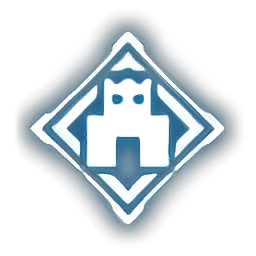
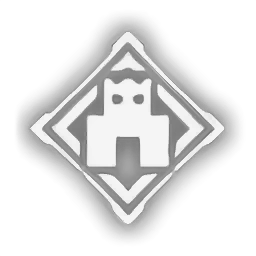
color bases and players per guild

Changed region(s): [[0.0938, 0.0938, 0.9062, 0.9062]]

diff --git a/src/bot.js b/src/bot.js
@@ -33,6 +33,47 @@ const INTERVAL_MINUTES = Number(process.env.INTERVAL_MINUTES ?? 10);
 // Exemple: MAP_IMAGE=../assets/updated_worldmap.png
 const MAP_IMAGE = process.env.MAP_IMAGE;
 const OUTPUT_SIZE = 4096;
+
+// ====== GUILD COLORS ======
+const GUILD_COLORS = [
+  "#ff0000", // rouge
+  "#3498DB", // bleu
+  "#2ECC71", // vert
+  "#F1C40F", // jaune
+  "#9B59B6", // violet
+  "#E67E22", // orange
+  "#ff21e1", // rose
+  "#95A5A6", // gris
+  "#00ffff", // cyan
+  "#FF5722", // deep orange
+  "#8BC34A", // light green
+  "#5e6f9e", // tailos
+  "#004953", // stratof
+];
+
+function normalizePalId(id) {
+  // guild members: "21FCEE28-00000000-..." vs players: "21FCEE2800000000..."
+  return String(id ?? "").replaceAll("-", "").toLowerCase();
+}
+
+function pickColorForGuild(palGuildId, state) {
+  state.palworld ??= {};
+  state.palworld.guildColors ??= {};
+
+  if (!state.palworld.guildColors[palGuildId]) {
+    const used = new Set(Object.values(state.palworld.guildColors));
+    const available = GUILD_COLORS.filter(c => !used.has(c));
+    const color = available.length
+      ? available[0]
+      : GUILD_COLORS[Math.floor(Math.random() * GUILD_COLORS.length)];
+
+    state.palworld.guildColors[palGuildId] = color;
+    saveState(state);
+  }
+
+  return state.palworld.guildColors[palGuildId];
+}
+
 // ====== COORDS / CALIBRATION ======
 //
 // 1) world -> map (déduit de tes couples joueurs world<->map)
@@ -107,29 +148,40 @@ const ASSETS = {
 
 let iconCache = null;
 
+const tintedCache = {
+  camp: new Map(),   // key: color -> buffer
+  player: new Map(), // key: color -> buffer
+};
+
+async function getTintedIcon(basePath, size, colorHex) {
+  // colorHex => key
+  const key = colorHex.toLowerCase();
+
+  // on choisit quel cache utiliser en fonction du fichier
+  const cache =
+    basePath === ASSETS.camp ? tintedCache.camp :
+    basePath === ASSETS.player ? tintedCache.player :
+    null;
+
+  if (cache && cache.has(key)) return cache.get(key);
+
+  const buf = await sharp(basePath)
+    .resize(size, size, { fit: "fill", kernel: sharp.kernel.nearest })
+    .tint(colorHex) // teinte toute l'icône
+    .png()
+    .toBuffer();
+
+  if (cache) cache.set(key, buf);
+  return buf;
+}
+
 async function loadIconsOnce() {
   if (iconCache) return iconCache;
 
   const CAMP_SIZE = 128;
   const PLAYER_SIZE = 112;
 
-  const camp = await sharp(ASSETS.camp)
-    .resize(CAMP_SIZE, CAMP_SIZE, { fit: "fill", kernel: sharp.kernel.nearest })
-    .png()
-    .toBuffer();
-
-  const player = await sharp(ASSETS.player)
-    .resize(PLAYER_SIZE, PLAYER_SIZE, { fit: "fill", kernel: sharp.kernel.nearest })
-    .png()
-    .toBuffer();
-
-  iconCache = {
-    camp,
-    player,
-    CAMP_SIZE,
-    PLAYER_SIZE,
-  };
-
+  iconCache = { CAMP_SIZE, PLAYER_SIZE };
   return iconCache;
 }
 
@@ -201,10 +253,11 @@ function extractCamps(guildsJson) {
     const g = guildsJson[guildId];
     for (const c of (g.camps ?? [])) {
       camps.push({
+        guild_id: guildId,
         guild: g.name,
+
         camp_id: c.id,
 
-        // ✅ on utilise map_pos directement (c'est notre meilleure vérité)
         map_x: (typeof c.map_pos?.x === "number") ? c.map_pos.x : null,
         map_y: (typeof c.map_pos?.y === "number") ? c.map_pos.y : null,
 
@@ -273,7 +326,7 @@ function makeLabelSvgSmall(text) {
 </svg>`);
 }
 
-async function renderSnapshot({ players, camps }) {
+async function renderSnapshot({ players, camps, playerToGuild, state }) {
   const icons = await loadIconsOnce();
 
   // 1) lire la map source
@@ -295,13 +348,17 @@ async function renderSnapshot({ players, camps }) {
   for (const c of camps) {
     if (typeof c.map_x !== "number" || typeof c.map_y !== "number") continue;
 
-    const { px, py } = mapToPixel(c.map_x, c.map_y); // px/py en repère srcW/srcH (8192)
+    const { px, py } = mapToPixel(c.map_x, c.map_y);
     const x = px * sx;
     const y = py * sy;
 
     const size = icons.CAMP_SIZE;
+
+    const color = pickColorForGuild(c.guild_id ?? "unknown", state);
+    const campIcon = await getTintedIcon(ASSETS.camp, size, color);
+
     composites.push({
-      input: icons.camp,
+      input: campIcon,
       left: Math.round(x - size / 2),
       top: Math.round(y - size / 2),
     });
@@ -313,15 +370,23 @@ async function renderSnapshot({ players, camps }) {
     const wy = Number(p.location_y ?? 0);
     if (!wx && !wy) continue;
 
-    const { px, py } = worldToPixel(wx, wy); // px/py en repère srcW/srcH
+    const { px, py } = worldToPixel(wx, wy);
     const x = px * sx;
     const y = py * sy;
 
     const size = icons.PLAYER_SIZE;
+
+    const pid = normalizePalId(p.playerId ?? p.player_id ?? "");
+    const palGuildId = playerToGuild?.[pid] ?? null;
+
+    // Si pas de guilde trouvée, couleur neutre
+    const color = palGuildId ? pickColorForGuild(palGuildId, state) : "#FFFFFF";
+    const playerIcon = await getTintedIcon(ASSETS.player, size, color);
+
     composites.push({
-      input: icons.player,
+      input: playerIcon,
       left: Math.round(x - size / 2),
-      top: Math.round(y - size),
+      top: Math.round(y - size), // bottom-center (épingle)
     });
 
     const labelSvg = makeLabelSvgSmall(p.name ?? p.nickname ?? "Player");
@@ -377,7 +442,12 @@ async function doUpdateForGuild(guildId, cfg, state, data, { force = false } = {
     return;
   }
 
-  const buf = await renderSnapshot({ players: data.players, camps: data.camps });
+  const buf = await renderSnapshot({
+    players: data.players,
+    camps: data.camps,
+    playerToGuild: data.playerToGuild,
+    state, // <= important: pour persister les couleurs
+  });
   const file = new AttachmentBuilder(buf, { name: "palworld-map.jpg" });
   const embed = makePalmapEmbed({
     playersCount: data.players.length,
@@ -396,6 +466,21 @@ async function doUpdateForGuild(guildId, cfg, state, data, { force = false } = {
   saveState(state);
 }
 
+function buildPlayerToGuildMap(guildsJson) {
+  const map = {};
+  for (const guildId of Object.keys(guildsJson)) {
+    const g = guildsJson[guildId];
+    for (const memberId of (g.members ?? [])) {
+      map[normalizePalId(memberId)] = guildId;
+    }
+    // au cas où, on ajoute aussi l'admin.id (souvent déjà dans members)
+    if (g.admin?.id) {
+      map[normalizePalId(g.admin.id)] = guildId;
+    }
+  }
+  return map;
+}
+
 async function fetchSnapshotData() {
   const playersJson = await fetchPlayers();
   const guildsJson = await fetchGuilds();
@@ -403,10 +488,12 @@ async function fetchSnapshotData() {
   const players = playersJson.players ?? playersJson ?? [];
   const camps = extractCamps(guildsJson);
 
+  const playerToGuild = buildPlayerToGuildMap(guildsJson);
+
   const hashPayload = stableSnapshotForHash(players, camps);
   const hash = sha256(hashPayload);
 
-  return { players, camps, hash };
+  return { players, camps, playerToGuild, guildsJson, hash };
 }
 
 async function tick({ forceGuildId = null } = {}) {
